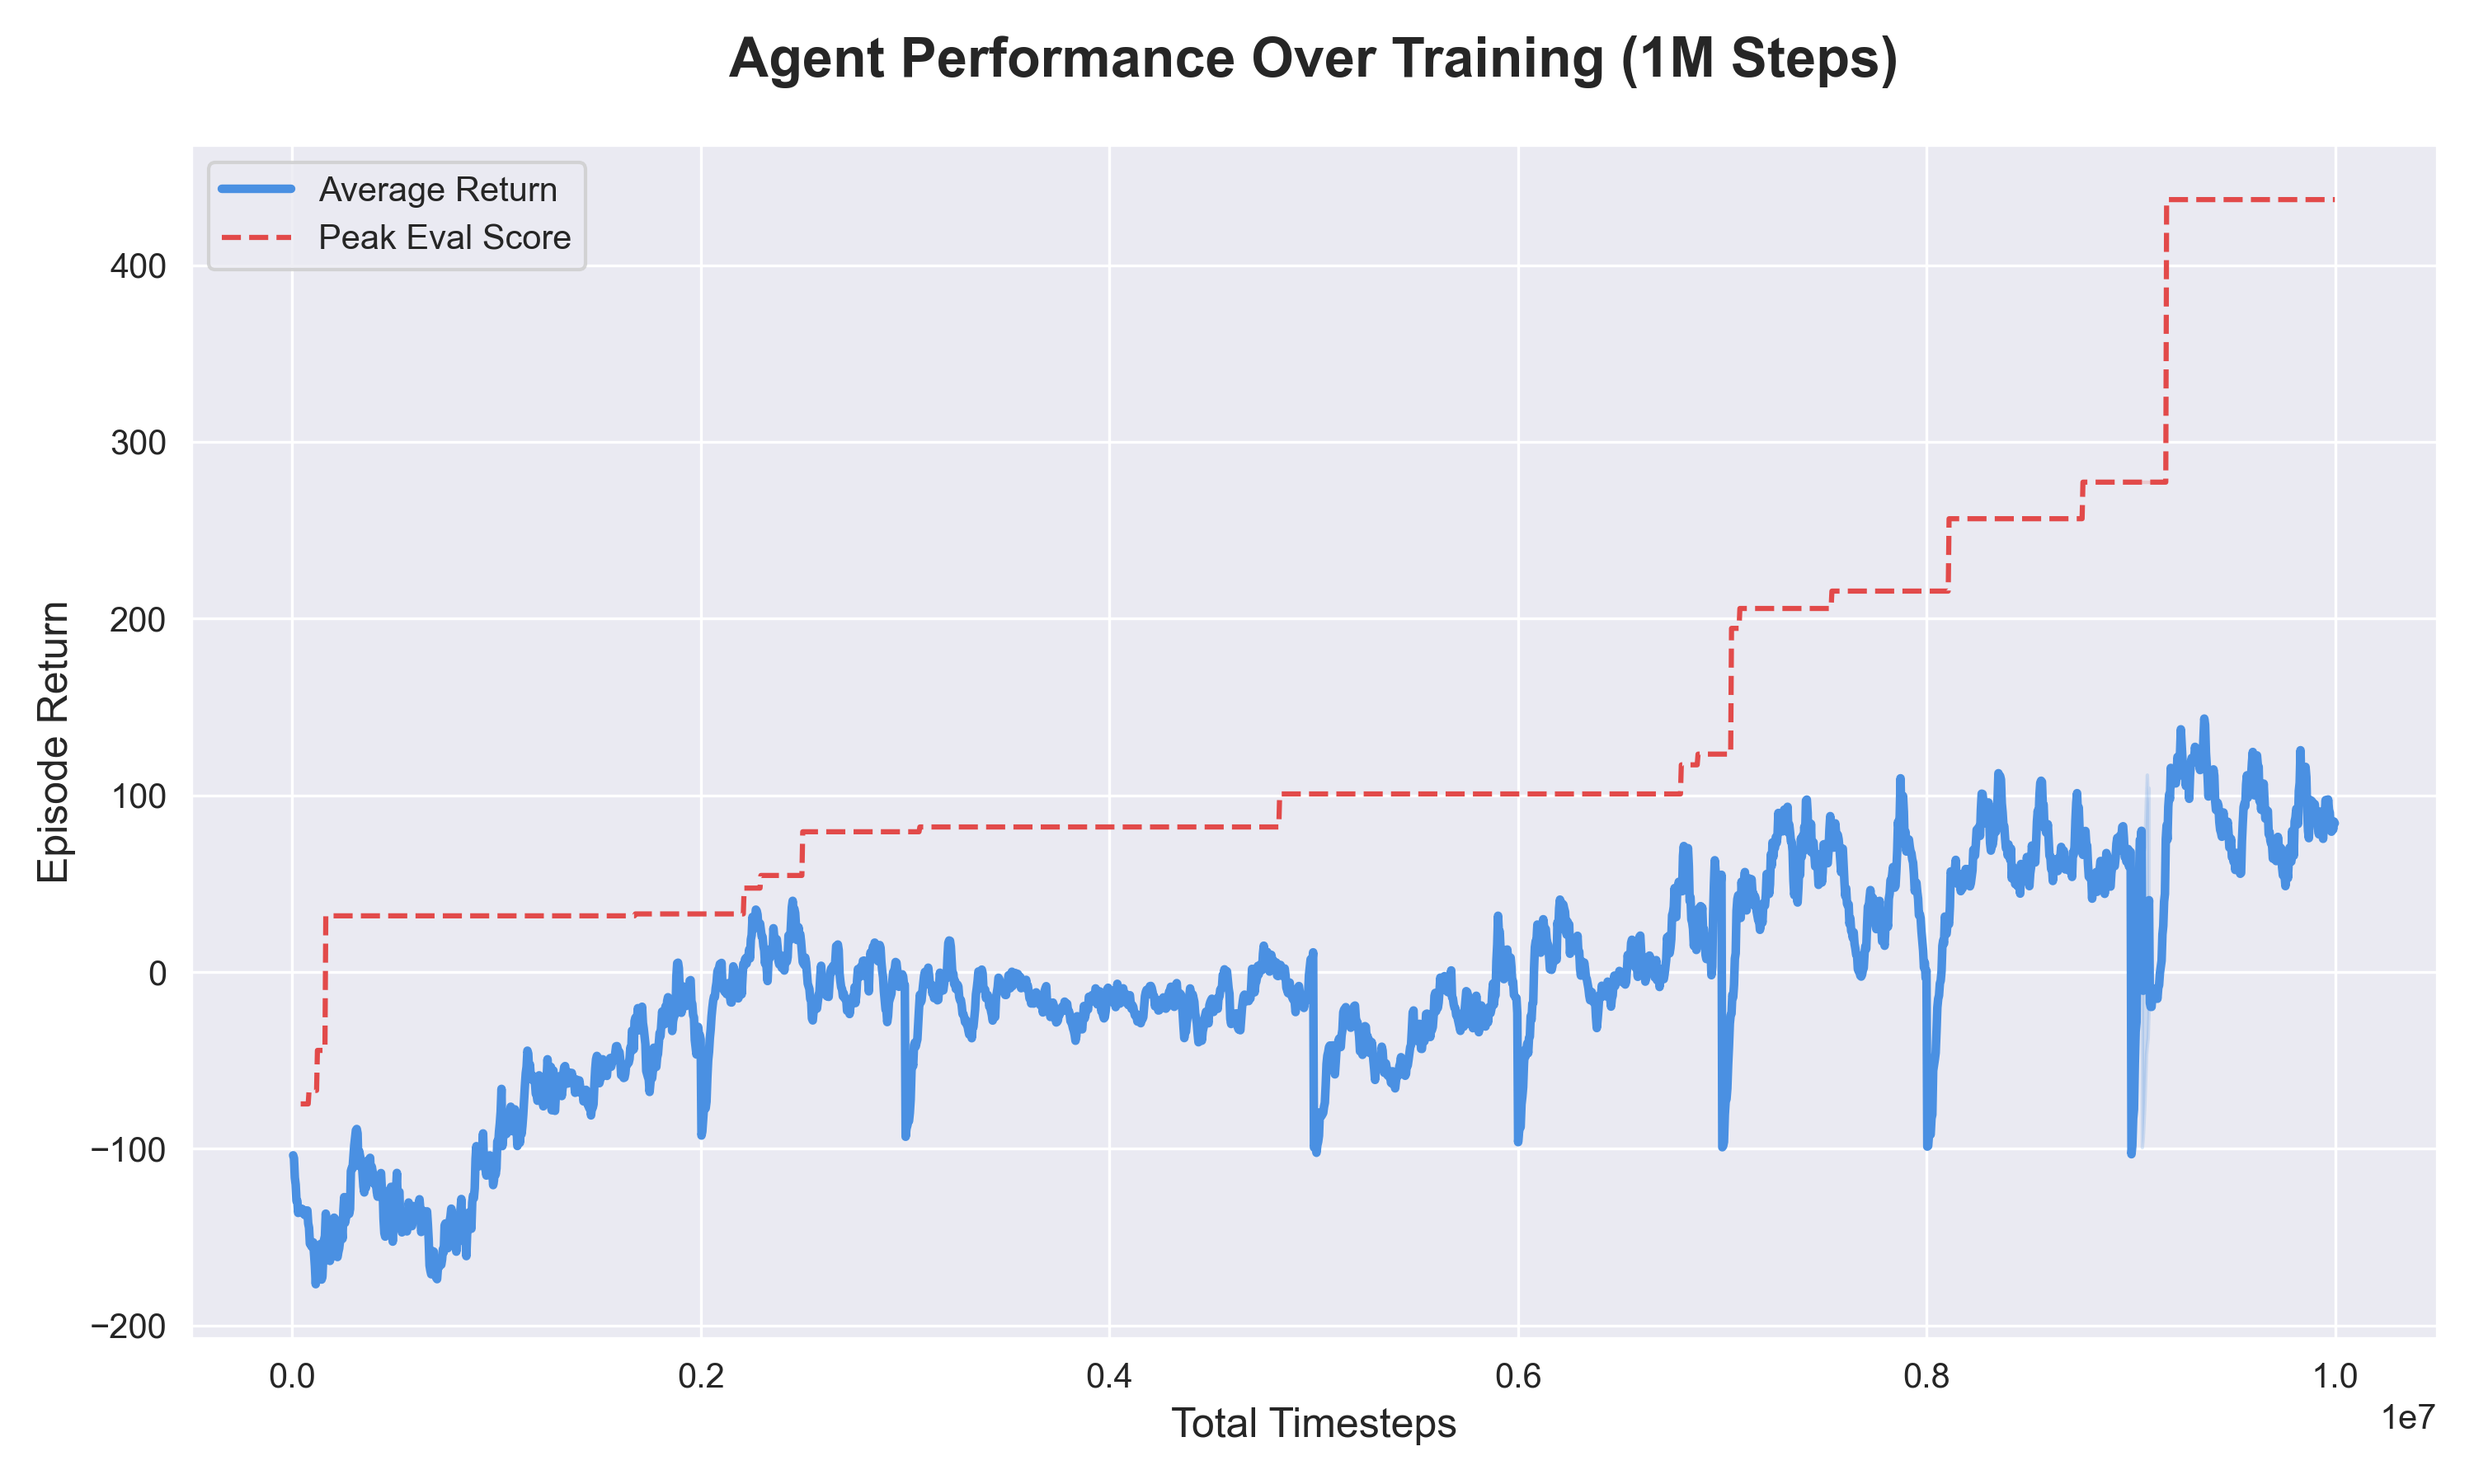
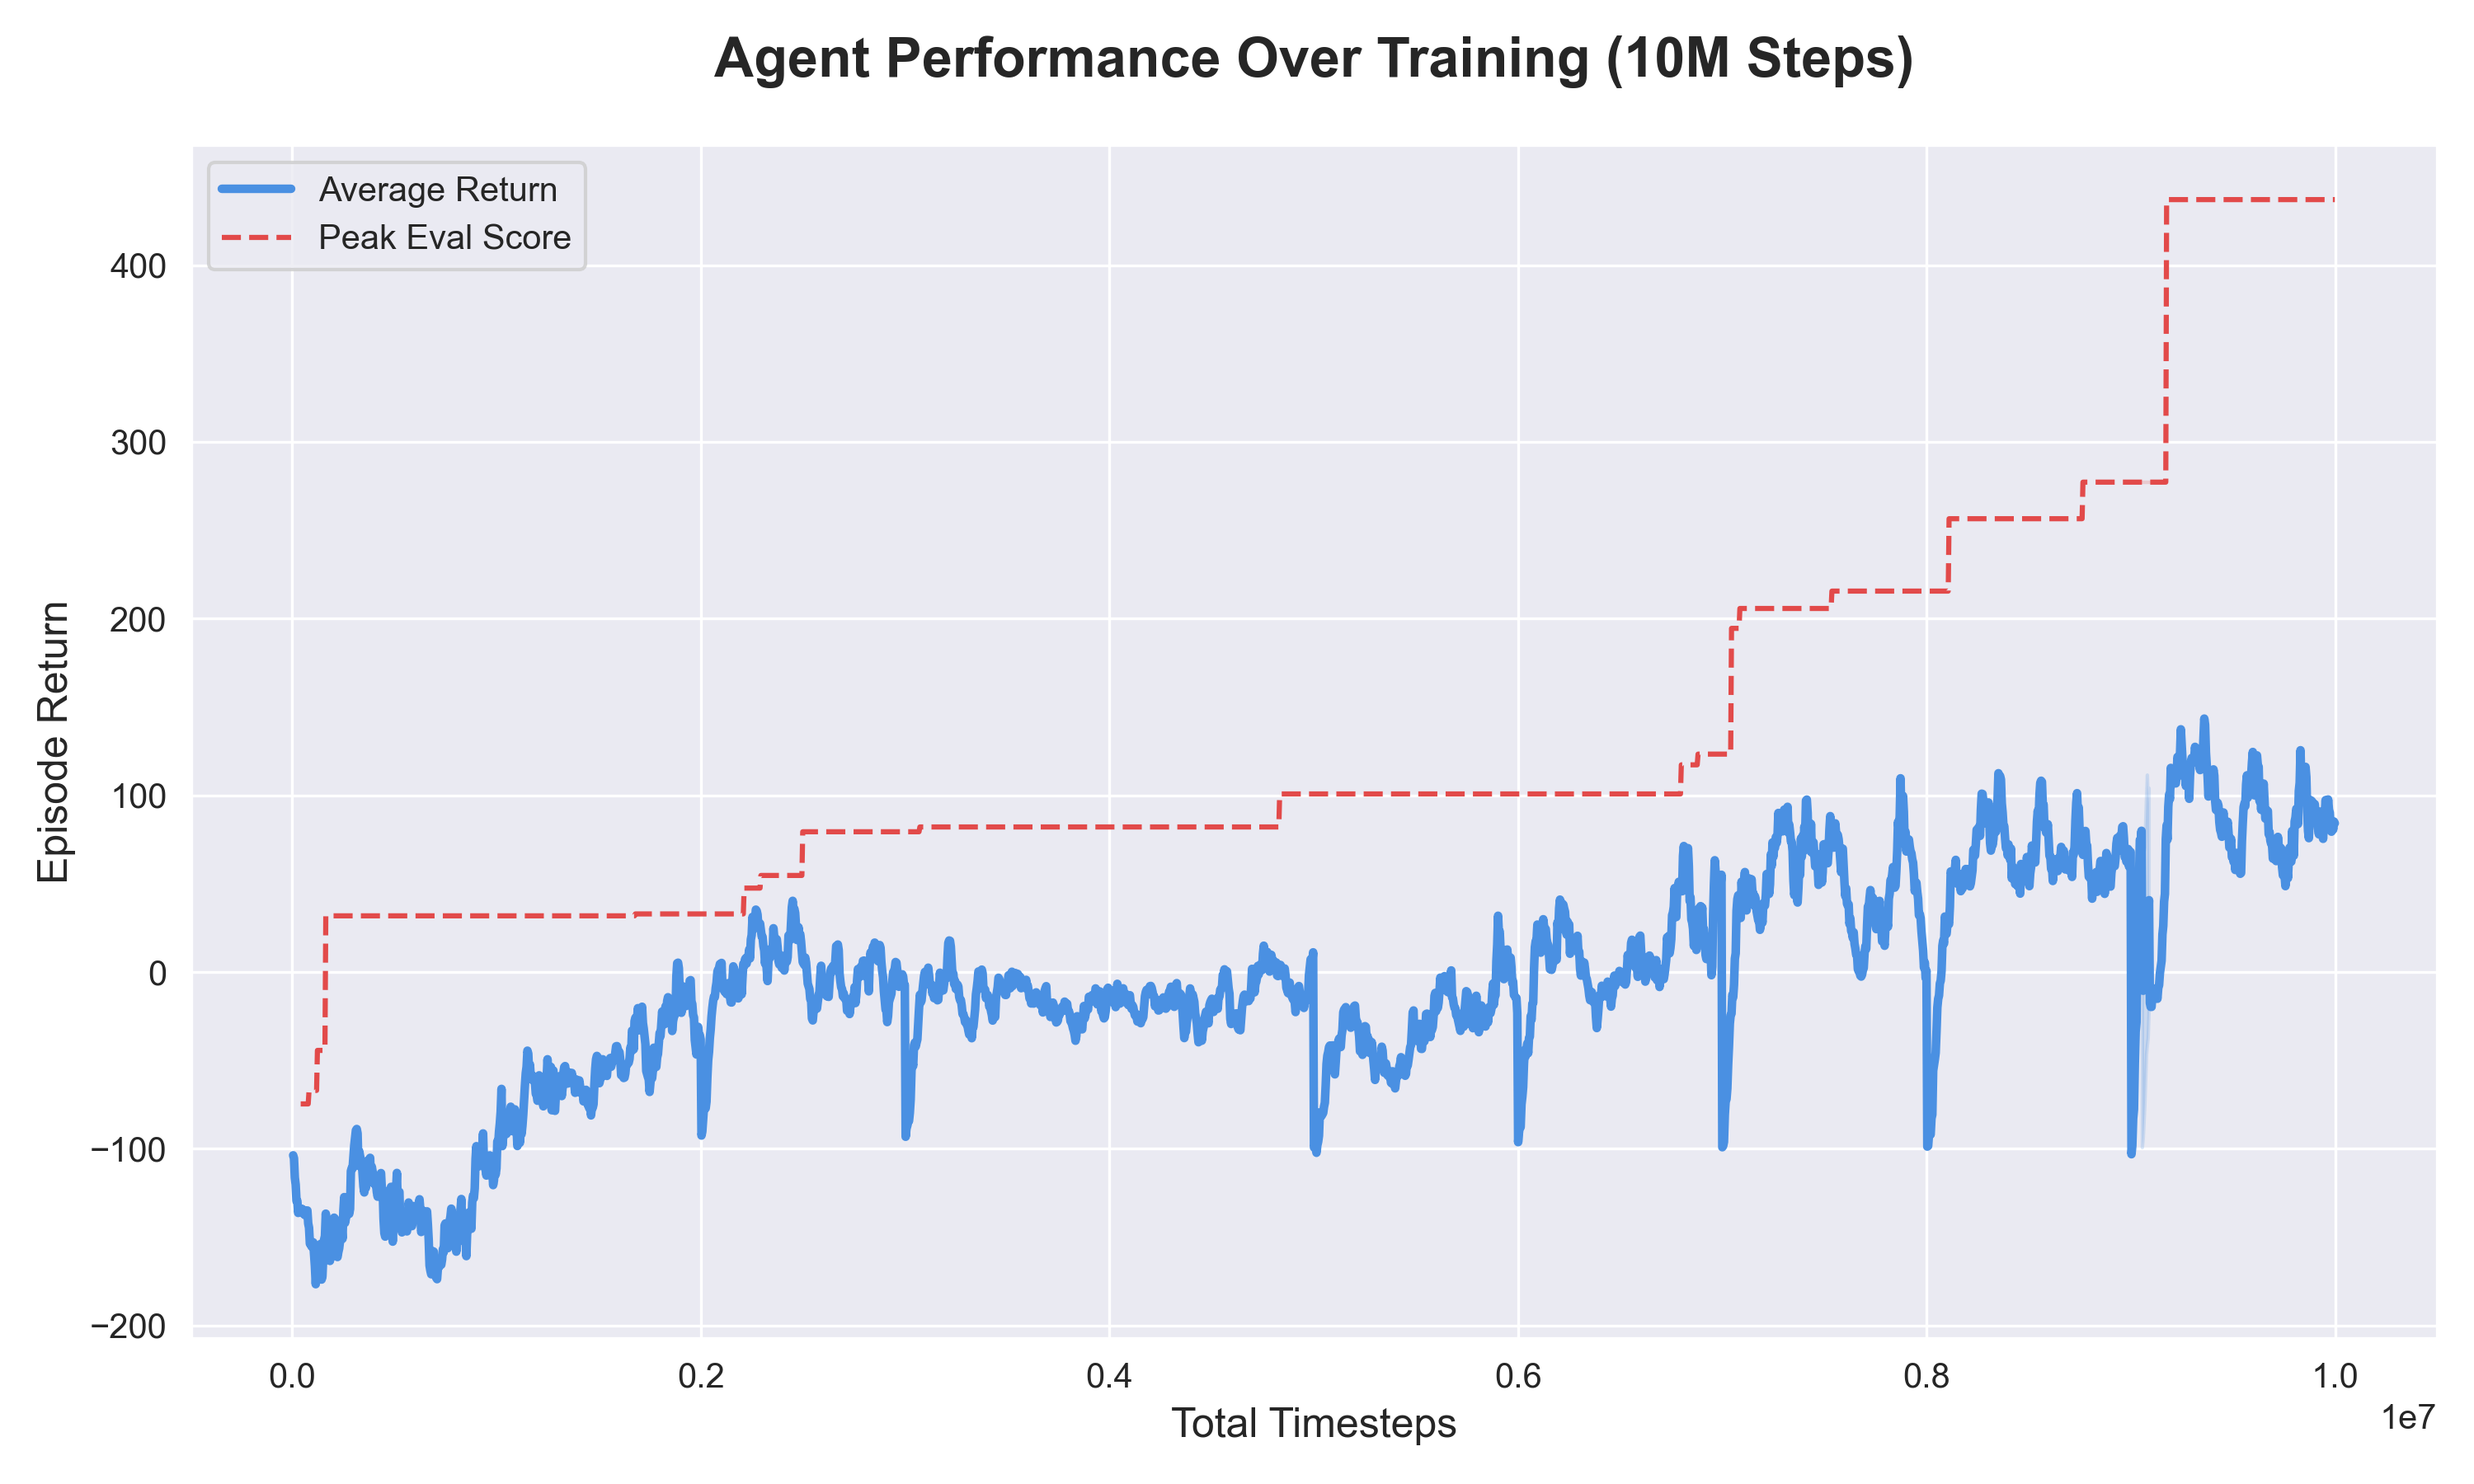
fix plots

Changed region(s): [[0.279, 0.0, 0.775, 0.0622]]

diff --git a/plot_results.py b/plot_results.py
@@ -31,7 +31,7 @@ def main():
     sns.lineplot(data=df, x="seen_steps", y="ep_return_ema", linewidth=2.5, color="#4A90E2", label="Average Return")
     sns.lineplot(data=df, x="seen_steps", y="best_eval", linewidth=1.5, color="#E24A4A", linestyle="--", label="Peak Eval Score")
 
-    plt.title("Agent Performance Over Training (1M Steps)", fontsize=16, fontweight='bold', pad=20)
+    plt.title("Agent Performance Over Training (10M Steps)", fontsize=16, fontweight='bold', pad=20)
     plt.xlabel("Total Timesteps", fontsize=12)
     plt.ylabel("Episode Return", fontsize=12)
     plt.legend()
